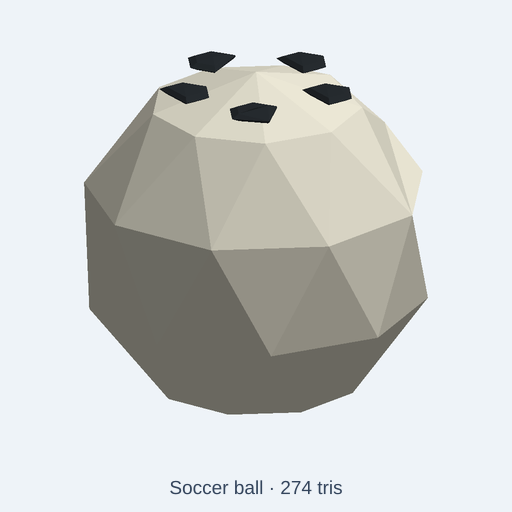
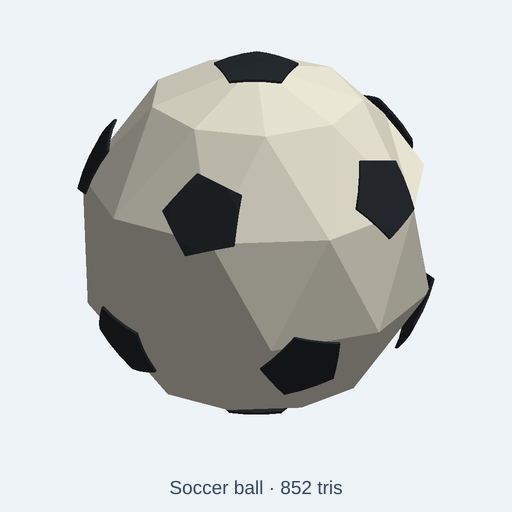
feat(catalog): correct soccer ball panel layout

diff --git a/catalog/kits/sports/soccer-ball.kcad.ts b/catalog/kits/sports/soccer-ball.kcad.ts
@@ -1,15 +1,15 @@
-// Soccer Ball: Ivory faceted soccer ball with contrasting pentagonal panel patches distributed over the spherical cover. Low-poly sports prop in millimetres, Z up; materials: ball cover, panel polymer.
+// Soccer ball: faceted ivory ball with twelve dark pentagonal cover panels distributed over the spherical surface. The spherical shell clips each panel to the ball's curvature. Low-poly sports prop in millimetres, Z up.
 meta({
   name: 'soccer-ball',
   license: 'CC0-1.0',
   title: 'Soccer ball',
-  description: "Ivory faceted soccer ball with contrasting pentagonal panel patches distributed over the spherical cover. Material controls: ball cover, panel polymer.",
+  description: "Faceted ivory soccer ball with twelve dark pentagonal panels spaced around the spherical cover. Material controls: ball cover and panel polymer.",
   tags: ['soccer ball', 'football', 'ball', 'field sport', 'low poly', 'CC0'],
   kit: 'sports',
   category: 'prop',
   origin: 'base',
   compat: ['sports', 'recreation', 'indoor', 'outdoor'],
-  triangleBudget: 800,
+  triangleBudget: 1000,
 });
 
 const scale = param('scale', 1, { label: 'Overall scale', min: 0.65, max: 1.35, step: 0.05 });
@@ -17,15 +17,42 @@ const ballCover = param('ballCover', '#ece8d6', { label: 'Ball cover' });
 const panelPolymer = param('panelPolymer', '#272c30', { label: 'Panel polymer' });
 presets({ clubColors: { ballCover: '#e8e4d8', panelPolymer: '#cf4939' } });
 const p = assembly('soccer-ball');
-p.part('ball', sphere(58).translate(0, 0, 58).scale(scale).color(ballCover));
+const radius = 58;
+const panelShell = sphere(radius + 0.4).subtract(sphere(radius - 0.4));
+const pentagon = (r: number) => Array.from({ length: 5 }, (_, i) => {
+  const a = -Math.PI / 2 + (2 * Math.PI * i) / 5;
+  return [r * Math.cos(a), r * Math.sin(a)] as [number, number];
+});
 
+p.part('ball-cover', sphere(radius).translate(0, 0, radius).scale(scale).color(ballCover));
 
-// Raised pentagonal patches break up the ivory cover into a recognizable panel ball.
-for (let i = 0; i < 5; i++) {
-  const a = 2 * Math.PI * i / 5 + Math.PI / 10;
-  const x = 24 * Math.cos(a), y = 24 * Math.sin(a);
-  const z = 58 + Math.sqrt(58 * 58 - x * x - y * y) + 0.6;
-  p.part(`pentagon-panel-${i + 1}`, sphere(8.8).scale([1, 1, 0.2]).translate(x, y, z).color(panelPolymer));
+// Clip each pentagonal cutter against a thin spherical shell so the dark panels
+// sit on the curved cover instead of floating above the crown.
+const panelLocations = [
+  [0, 0],
+  ...Array.from({ length: 5 }, (_, i) => [63.435, i * 72]),
+  ...Array.from({ length: 5 }, (_, i) => [116.565, 36 + i * 72]),
+  [180, 0],
+];
+for (let i = 0; i < panelLocations.length; i++) {
+  const [tilt, azimuth] = panelLocations[i];
+  const theta = (tilt * Math.PI) / 180;
+  const phi = (azimuth * Math.PI) / 180;
+  const x = radius * Math.sin(theta) * Math.cos(phi);
+  const y = radius * Math.sin(theta) * Math.sin(phi);
+  const z = radius * Math.cos(theta);
+  const cutter = extrudePolygon(pentagon(14), 10)
+    .translate(0, 0, -8)
+    .rotateY(tilt)
+    .rotateZ(azimuth)
+    .translate(x, y, z);
+  let panel = panelShell.intersect(cutter).translate(0, 0, radius);
+  if (i === panelLocations.length - 1) {
+    const floorClip = box(2 * radius + 4, 2 * radius + 4, 3 * radius)
+      .translate(-radius - 2, -radius - 2, 0);
+    panel = panel.intersect(floorClip);
+  }
+  p.part(`pentagon-panel-${i + 1}`, panel.scale(scale).color(panelPolymer));
 }
 
 return p.model();
